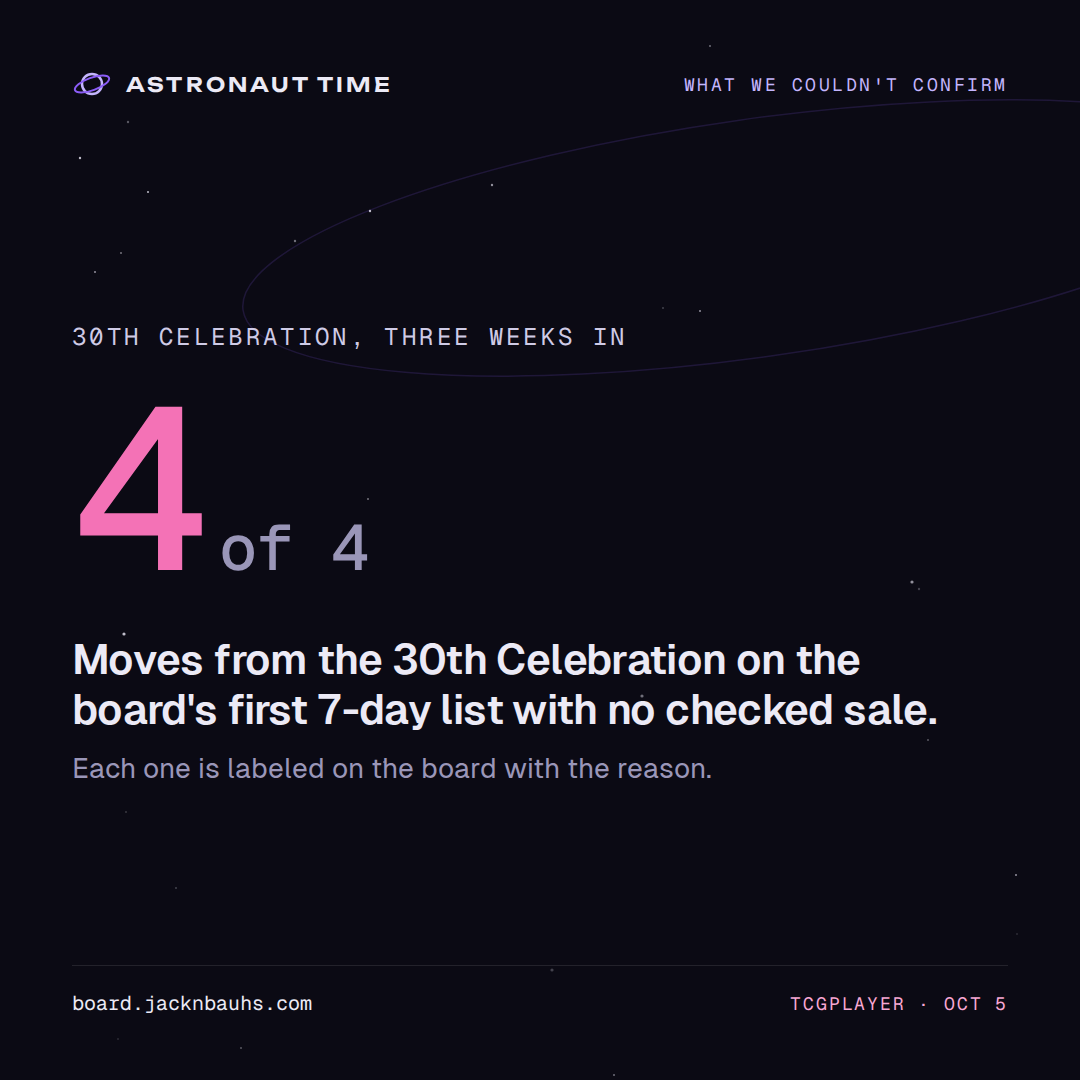
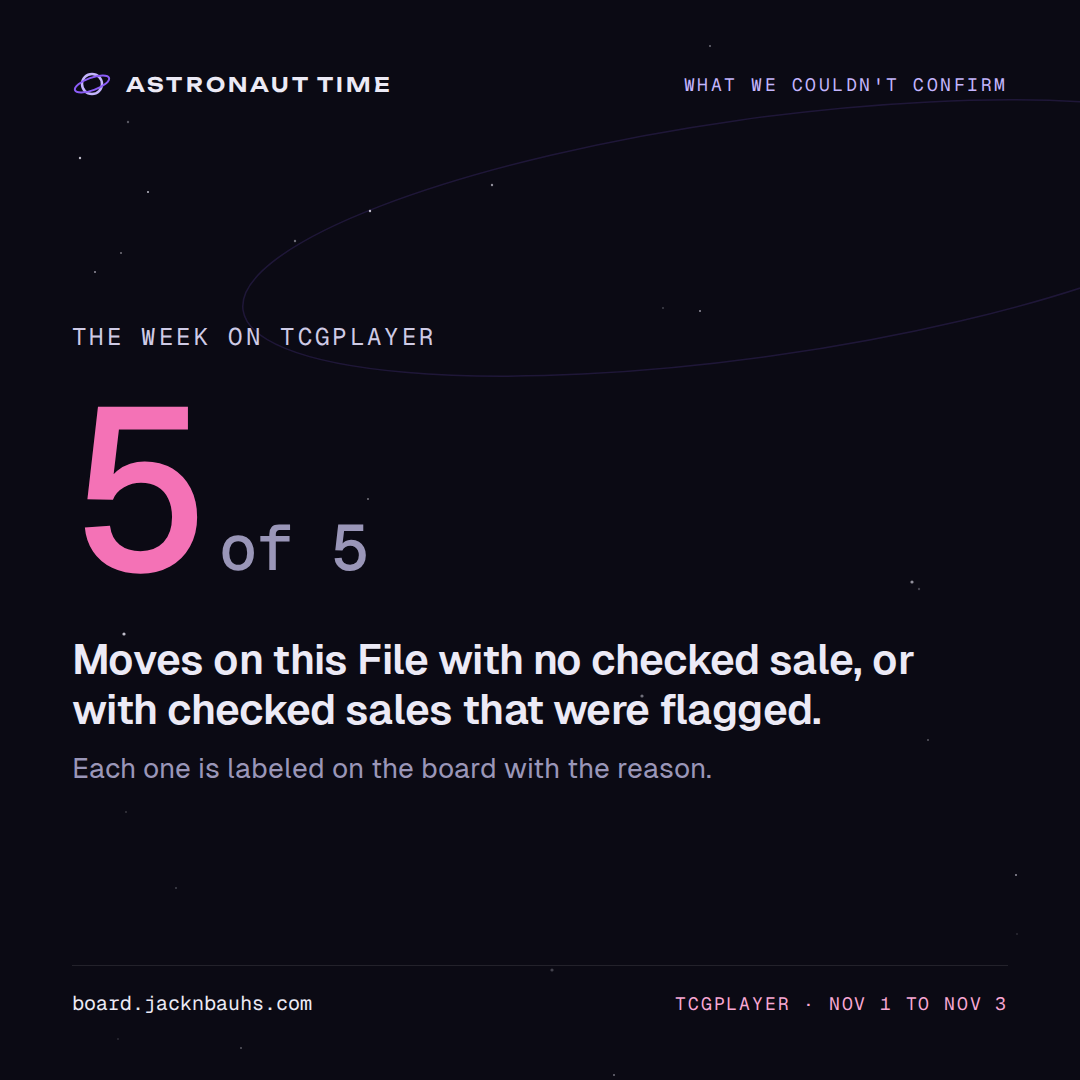
Share kit: render 2026-11-04

diff --git a/card.html b/card.html
@@ -10,14 +10,14 @@
 <meta property="og:url" content="https://board.jacknbauhs.com/card.html">
 <meta property="og:type" content="website">
 <meta property="og:site_name" content="Astronaut Time">
-<meta property="og:image" content="https://board.jacknbauhs.com/assets/og.png?v=2026-11-03">
+<meta property="og:image" content="https://board.jacknbauhs.com/assets/og.png?v=2026-11-04">
 <meta property="og:image:width" content="1200">
 <meta property="og:image:height" content="630">
 <meta property="og:image:alt" content="Mission Control by Astronaut Time: the card market, with the fake sales taken out.">
 <meta name="twitter:card" content="summary_large_image">
 <meta name="twitter:title" content="Card · Mission Control · Astronaut Time">
 <meta name="twitter:description" content="The card market, with the fake sales taken out.">
-<meta name="twitter:image" content="https://board.jacknbauhs.com/assets/og.png?v=2026-11-03">
+<meta name="twitter:image" content="https://board.jacknbauhs.com/assets/og.png?v=2026-11-04">
 <meta name="theme-color" content="#0B0A14">
 <link rel="icon" href="assets/favicon.svg" type="image/svg+xml">
 <link rel="preconnect" href="https://fonts.googleapis.com">

diff --git a/404.html b/404.html
@@ -10,14 +10,14 @@
 <meta property="og:url" content="https://board.jacknbauhs.com/">
 <meta property="og:type" content="website">
 <meta property="og:site_name" content="Astronaut Time">
-<meta property="og:image" content="https://board.jacknbauhs.com/assets/og.png?v=2026-11-03">
+<meta property="og:image" content="https://board.jacknbauhs.com/assets/og.png?v=2026-11-04">
 <meta property="og:image:width" content="1200">
 <meta property="og:image:height" content="630">
 <meta property="og:image:alt" content="Mission Control by Astronaut Time: the card market, with the fake sales taken out.">
 <meta name="twitter:card" content="summary_large_image">
 <meta name="twitter:title" content="Mission Control · Astronaut Time">
 <meta name="twitter:description" content="The card market, with the fake sales taken out.">
-<meta name="twitter:image" content="https://board.jacknbauhs.com/assets/og.png?v=2026-11-03">
+<meta name="twitter:image" content="https://board.jacknbauhs.com/assets/og.png?v=2026-11-04">
 <meta name="theme-color" content="#0B0A14">
 <link rel="icon" href="/assets/favicon.svg" type="image/svg+xml">
 <link rel="preconnect" href="https://fonts.googleapis.com">

diff --git a/index.html b/index.html
@@ -10,14 +10,14 @@
 <meta property="og:url" content="https://board.jacknbauhs.com/">
 <meta property="og:type" content="website">
 <meta property="og:site_name" content="Astronaut Time">
-<meta property="og:image" content="https://board.jacknbauhs.com/assets/og.png?v=2026-11-03">
+<meta property="og:image" content="https://board.jacknbauhs.com/assets/og.png?v=2026-11-04">
 <meta property="og:image:width" content="1200">
 <meta property="og:image:height" content="630">
 <meta property="og:image:alt" content="Mission Control by Astronaut Time: the card market, with the fake sales taken out.">
 <meta name="twitter:card" content="summary_large_image">
 <meta name="twitter:title" content="Mission Control · Astronaut Time">
 <meta name="twitter:description" content="The card market, with the fake sales taken out.">
-<meta name="twitter:image" content="https://board.jacknbauhs.com/assets/og.png?v=2026-11-03">
+<meta name="twitter:image" content="https://board.jacknbauhs.com/assets/og.png?v=2026-11-04">
 <meta name="theme-color" content="#0B0A14">
 <link rel="icon" href="assets/favicon.svg" type="image/svg+xml">
 <link rel="preconnect" href="https://fonts.googleapis.com">

diff --git a/share/out/captions.md b/share/out/captions.md
@@ -1,24 +1,24 @@
-# Captions, board data of 2026-11-03
+# Captions, board data of 2026-11-04
 
 One block per image. Caption first, alt text second. Plain facts, the source and the board link; nothing here is a buy.
 
 ## Before you post
 
-- ✅ Prices are from Nov 2, 2026.
+- ✅ Prices are from Nov 3, 2026.
 - ⚠ All 10 on the 7-day list are unconfirmed: no checked sale behind any. Keep "unconfirmed" in the post and call them price moves, not sales.
 - ⚠ All 10 on the since-yesterday list are unconfirmed: no checked sale behind any. Keep "unconfirmed" in the post and call them price moves, not sales.
 
-## file-2026-10-08-cover.png
+## file-2026-11-04-cover.png
 
-The File, Oct 8 (Thu market): Our prices can see the 30th Celebration from day 12, not its launch. TCGplayer's market price for the four 30th Celebration cards on the board's first 7-day list fell between 39.1% and 48.1% from Sep 28 to Oct 5. All four are unconfirmed: no sale checked on any of them. What the list doesn't show: the set's launch week, the set as a whole, or the original cards its Classic Collection reprints. Jirachi ex - 155/128 (ME: 30th Celebration): TCGplayer market price $50.32 on Oct 5, −48.1% in 7 days, unconfirmed. Lugia (ME: 30th Celebration Classic Collection 149/147): TCGplayer market price $211.23 on Oct 5, −45.7% in 7 days, unconfirmed. Mew ex - 152/128 (ME: 30th Celebration): TCGplayer market price $92.28 on Oct 5, −40.2% in 7 days, unconfirmed. Gengar ex - 154/128 (ME: 30th Celebration): TCGplayer market price $72.18 on Oct 5, −39.1% in 7 days, unconfirmed. 4 of 4 moves from the 30th Celebration on the board's first 7-day list with no checked sale. Why now: The board's 7-day list filled in for the first time on Oct 6, with prices from Sep 28 to Oct 5: days 12 to 19 after the Sep 16 launch. Our prices start Sep 28, so launch week isn't in them. What could break it: Any of these moves may be real: unconfirmed means no sale was checked, not that anything is wrong. The list holds at most ten of the biggest moves that pass its rule, so it can't speak for the set. This is not a read on whether these prices are high or low. What we're watching: On the Oct 8 list (prices Sep 30 to Oct 7), TCGplayer's market price for Mew ex fell 41.3% to $84.80 and for Jirachi ex 39.4% to $46.96, both unconfirmed and still on the list two days later. The Lugia reprint and Gengar ex aren't on it. Off the list wouldn't mean steady: a card drops off by moving less than the list's smallest move (38.9% on Oct 8), more than 60% with no checked sale, without its lowest listing moving the same way, or below $20. Unconfirmed: no checked sales speak to the move yet. Source: TCGplayer market prices via tcgcsv.com, from the board's first 7-day list (prices Sep 28 to Oct 5, 2026, published Oct 6) and the Oct 8 list (prices Sep 30 to Oct 7, 2026, published Oct 8). board.jacknbauhs.com
+The File, Nov 4: The 5 biggest moves on the board's 7-day list, prices Oct 27 to Nov 3. TCGplayer's market price for Pikachu ex - 107 (30th Celebration) fell 49.7% to $77.83 and Mewtwo - 51/108 (Cracked Ice Holo) rose 39.1% to $37.10 between Oct 27 and Nov 3. None of the 5 has a checked sale behind the move: unconfirmed means Mission Control checked no sale in the window, not that anything is wrong. Pikachu ex - 107 (30th Celebration) (ME: Mega Evolution Promo): TCGplayer market price $77.83 on Nov 3, −49.7% in 7 days, unconfirmed. Mewtwo - 51/108 (Cracked Ice Holo) (Deck Exclusives): TCGplayer market price $37.10 on Nov 3, +39.1% in 7 days, unconfirmed. Charizard VSTAR - 018/172 (Prize Pack Series Cards): TCGplayer market price $499.76 on Nov 1, +25.2% in 7 days, unconfirmed. Charizard - 1/99 (Cracked Ice Holo) (Miscellaneous Cards & Products): TCGplayer market price $141.83 on Nov 3, +24.2% in 7 days, unconfirmed. Mew ex - 152/128 (ME: 30th Celebration): TCGplayer market price $64.93 on Nov 3, −21.7% in 7 days, unconfirmed. 5 of 5 moves on this File with no checked sale, or with checked sales that were flagged. Why now: Mission Control writes this File every morning from the nightly TCGplayer pull, so the board has a fresh File on the mornings no hand-written one is up (Tue, Thu and Sat are its days). What could break it: A market price is TCGplayer's average of recent completed sales of the same card, condition and printing, so one sale can move a thin card. The list's rule keeps out the moves nothing backs, not every thin one. This is not a read on whether these prices are high or low. What we're watching: Whether these moves hold on tomorrow's pull. A card drops off the list by moving less than 5% in a week, more than 60% with no checked sale, without its lowest listing moving the same way, or below $20. The next hand-written File day is Thursday, Nov 5. Unconfirmed: no checked sales speak to the move yet. Source: TCGplayer market prices via tcgcsv.com, the board's 7-day list (prices Oct 27 to Nov 3, 2026, published Nov 4). board.jacknbauhs.com
 
-Alt: The File on the Astronaut Time board: Our prices can see the 30th Celebration from day 12, not its launch. 30th Celebration cards on the board's first 7-day list, none with a checked sale: 4 of 10, days 12 to 19 after the Sep 16 launch (Sep 28 to Oct 5). Four 7-day TCGplayer moves as bars, each with its change, price and label, and the flags tally, 4 of 4.
+Alt: The File on the Astronaut Time board: The 5 biggest moves on the board's 7-day list, prices Oct 27 to Nov 3. The biggest moves on the board's 7-day list, prices Oct 27 to Nov 3: −49.7%, in 7 days · Pikachu ex - 107 (30th Celebration). Five 7-day TCGplayer moves as bars, each with its change, price and label, and the flags tally, 5 of 5.
 
-## flags-2026-10-05-cover.png
+## flags-2026-11-03-cover.png
 
-4 of 4 moves from the 30th Celebration on the board's first 7-day list with no checked sale. Mission Control hasn't checked a sale behind any move on the board's first 7-day list, these four included. With no checked sales, a move shows only if it's 60% or less over 7 days and TCGplayer's lowest listing moved the same way, by an amount we don't publish (it can be a cent). Jirachi ex - 155/128, Oct 5: $50.32, −48.1% in 7 days; no checked sale. Lugia 149/147 · Classic Collection, Oct 5: $211.23, −45.7% in 7 days; no checked sale. Mew ex - 152/128, Oct 5: $92.28, −40.2% in 7 days; no checked sale. Gengar ex - 154/128, Oct 5: $72.18, −39.1% in 7 days; no checked sale. Every one is on the board with its label. Prices are TCGplayer's market price after the move. Source: TCGplayer market prices via tcgcsv.com, from the board's first 7-day list (prices Sep 28 to Oct 5, 2026, published Oct 6) and the Oct 8 list (prices Sep 30 to Oct 7, 2026, published Oct 8). board.jacknbauhs.com
+5 of 5 moves on this File with no checked sale, or with checked sales that were flagged. Mission Control checked no sale behind 5 of the 5 moves on this File. With no checked sales, a move shows only if it's 60% or less over 7 days and TCGplayer's lowest listing moved the same way by at least a quarter as much. Pikachu ex - 107 (30th Celebration), Nov 3: $77.83, −49.7% in 7 days; no sales checked in this window. Mewtwo - 51/108 (Cracked Ice Holo), Nov 3: $37.10, +39.1% in 7 days; no sales checked in this window. Charizard VSTAR - 018/172, Nov 1: $499.76, +25.2% in 7 days; no sales checked in this window. Charizard - 1/99 (Cracked Ice Holo), Nov 3: $141.83, +24.2% in 7 days; no sales checked in this window. Mew ex - 152/128, Nov 3: $64.93, −21.7% in 7 days; no sales checked in this window. Every one is on the board with its label. Prices are TCGplayer's market price after the move. Source: TCGplayer market prices via tcgcsv.com, the board's 7-day list (prices Oct 27 to Nov 3, 2026, published Nov 4). board.jacknbauhs.com
 
-Alt: What we couldn't confirm: 4 of 4 moves from the 30th Celebration on the board's first 7-day list with no checked sale, all 4 listed one per line with the day, the card, the change and the TCGplayer market price after it.
+Alt: What we couldn't confirm: 5 of 5 moves on this File with no checked sale, or with checked sales that were flagged, all 5 listed one per line with the day, the card, the change and the TCGplayer market price after it.
 
 ## call-001-2026-09-28.png
 
@@ -46,6 +46,6 @@ Alt: Three calls on the record. Number 001: The 30th Celebration Booster Bundle'
 
 ## moving-2026-W45.png
 
-What's moving on TCGplayer, as of Nov 2, 2026. Ten moves of 5% or more made the list in the last 7 days. Pikachu ex - 109 (30th Celebration) (ME: Mega Evolution Promo · 109 · Holofoil): $89, −42.0%, unconfirmed. Pikachu ex - 107 (30th Celebration) (ME: Mega Evolution Promo · 107 · Holofoil): $87.76, −40.2%, unconfirmed. Mewtwo - 51/108 (Cracked Ice Holo) (Deck Exclusives · 051/108 · Holofoil): $36.10, +37.0%, unconfirmed. Lugia EX (XY - Ancient Origins · 68/98 · Holofoil): $28.59, +29.2%, unconfirmed. Gengar - 60/162 (XY BREAKthrough) (Deck Exclusives · 060/162): $31.29, +25.3%, unconfirmed. Mega Meganium ex - 272/217 (ME: Ascended Heroes · 272/217 · Holofoil): $48.66, −21.2%, unconfirmed. Lugia (ME: 30th Celebration Classic Collection · 149/147 · Holofoil): $155.28, −21.1%, unconfirmed. Suicune V - 031/203 (Prize Pack Series Cards · 031/203 · Holofoil): $52.94, +19.5%, unconfirmed. Unconfirmed: no checked sales; shown only if ≤60%, actively traded, low listing agreed, priced within 2 days. Source: TCGplayer market prices via tcgcsv.com, as of Nov 2, 2026. board.jacknbauhs.com
+What's moving on TCGplayer, as of Nov 3, 2026. Ten moves of 5% or more made the list in the last 7 days. Pikachu ex - 107 (30th Celebration) (ME: Mega Evolution Promo · 107 · Holofoil): $77.83, −49.7%, unconfirmed. Mewtwo - 51/108 (Cracked Ice Holo) (Deck Exclusives · 051/108 · Holofoil): $37.10, +39.1%, unconfirmed. Charizard VSTAR - 018/172 (Prize Pack Series Cards · 018/172 · Holofoil): $499.76, +25.2%, unconfirmed. Charizard - 1/99 (Cracked Ice Holo) (Miscellaneous Cards & Products · 001/099 · Holofoil): $141.83, +24.2%, unconfirmed. Mew ex - 152/128 (ME: 30th Celebration · 152/128 · Holofoil): $64.93, −21.7%, unconfirmed. Lugia (ME: 30th Celebration Classic Collection · 149/147 · Holofoil): $150.57, −21.4%, unconfirmed. Latios Prism Star (SM - Celestial Storm · 108/168 · Holofoil): $41.02, −21.1%, unconfirmed. Lugia VSTAR - 139/195 (Prize Pack Series Cards · 139/195 · Holofoil): $26.70, +19.9%, unconfirmed. Unconfirmed: no checked sales; shown only if ≤60%, actively traded, low listing agreed, priced within 2 days. Source: TCGplayer market prices via tcgcsv.com, as of Nov 3, 2026. board.jacknbauhs.com
 
 Alt: What's moving: the 8 biggest of the 10 TCGplayer moves on the list in the last 7 days, each with its market price, its change and the label for what checked sales show.

diff --git a/share/out/site/squarespace.md b/share/out/site/squarespace.md
@@ -2,9 +2,9 @@
 
 ## Four tiles (one Markdown block per column, or all four in one block)
 
-[![The File: Our prices can see the 30th Celebration from day 12, not its launch. 4 of 10: 30th Celebration cards on the board's first 7-day list, none with a checked sale, days 12 to 19 after the Sep 16 launch (Sep 28 to Oct 5). No sale checked behind any of the four, or any other move on the list. Not a read on whether these prices are high or low.](https://board.jacknbauhs.com/share/out/site/tile-file.png)](https://board.jacknbauhs.com)
+[![The File: The 5 biggest moves on the board's 7-day list, prices Oct 27 to Nov 3. −49.7%: The biggest moves on the board's 7-day list, prices Oct 27 to Nov 3, in 7 days · Pikachu ex - 107 (30th Celebration). No sale checked behind 5 of the 5. Not a read on whether these prices are high or low.](https://board.jacknbauhs.com/share/out/site/tile-file.png)](https://board.jacknbauhs.com)
 
-[![What we couldn't confirm: 4 of 4 moves from the 30th Celebration on the board's first 7-day list with no checked sale, each labeled with the reason.](https://board.jacknbauhs.com/share/out/site/tile-flags.png)](https://board.jacknbauhs.com)
+[![What we couldn't confirm: 5 of 5 moves on this File with no checked sale, or with checked sales that were flagged, each labeled with the reason.](https://board.jacknbauhs.com/share/out/site/tile-flags.png)](https://board.jacknbauhs.com)
 
 [![3 calls on the record, dated the day they went public. Check me Oct 30. Misses stay up.](https://board.jacknbauhs.com/share/out/site/tile-calls.png)](https://board.jacknbauhs.com)
 
